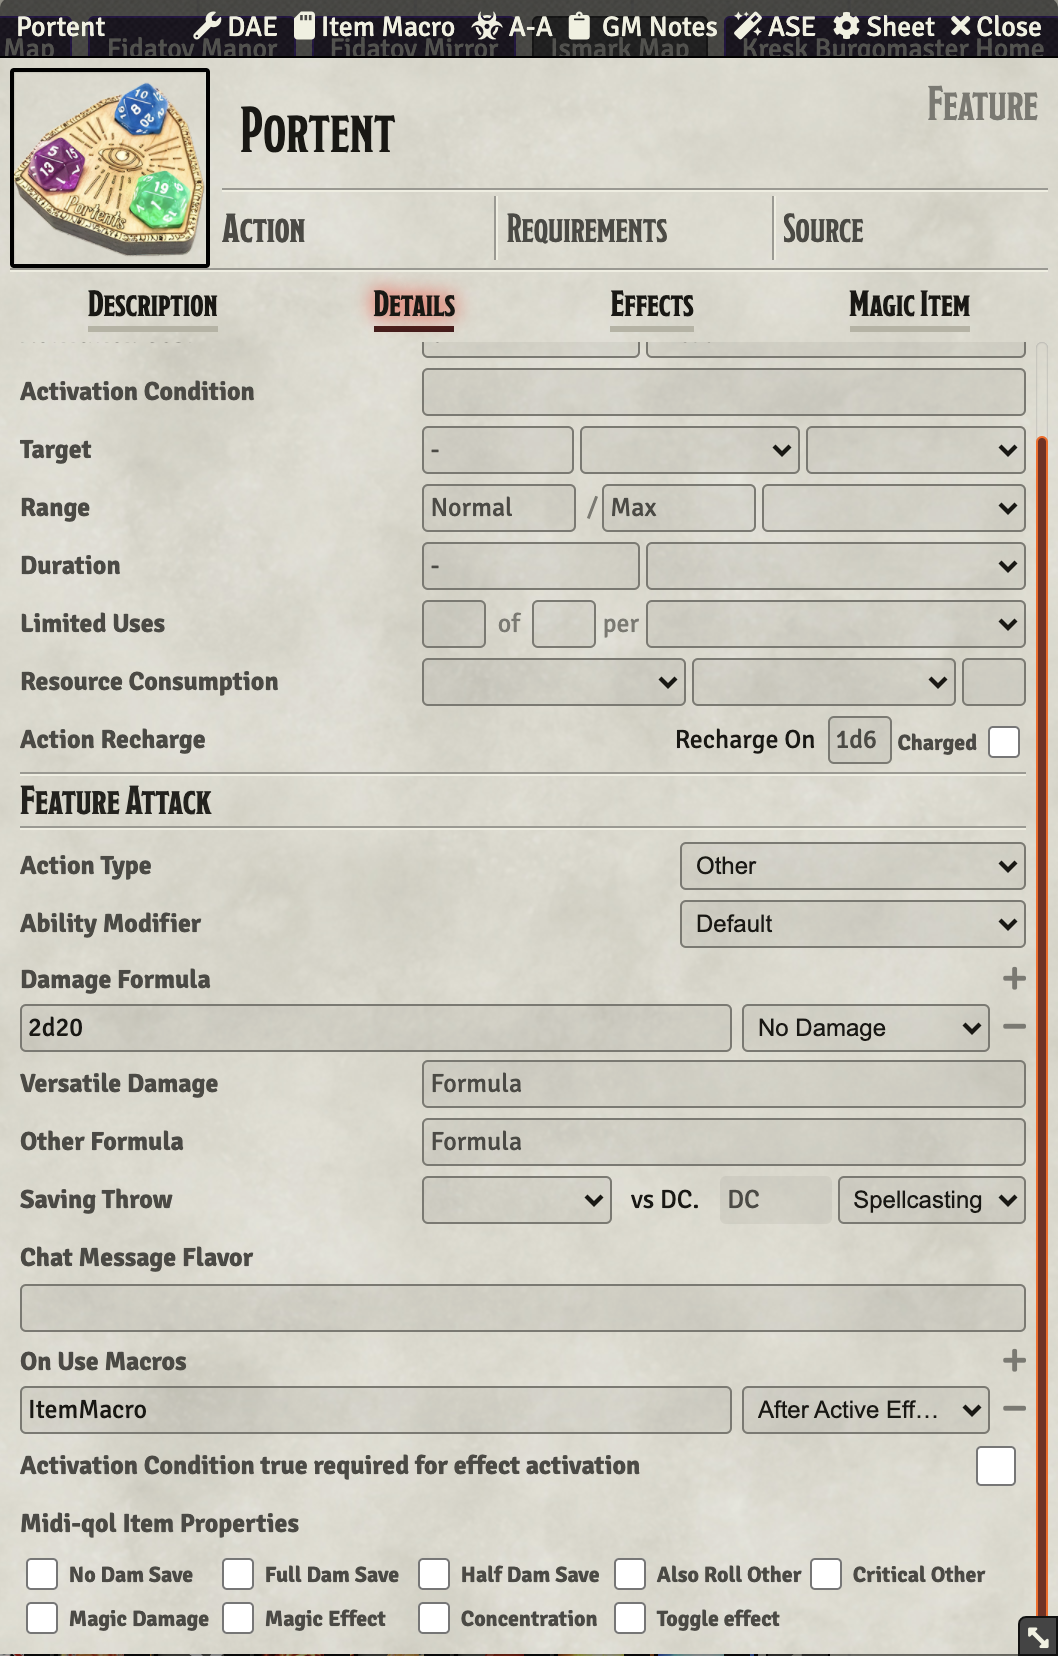
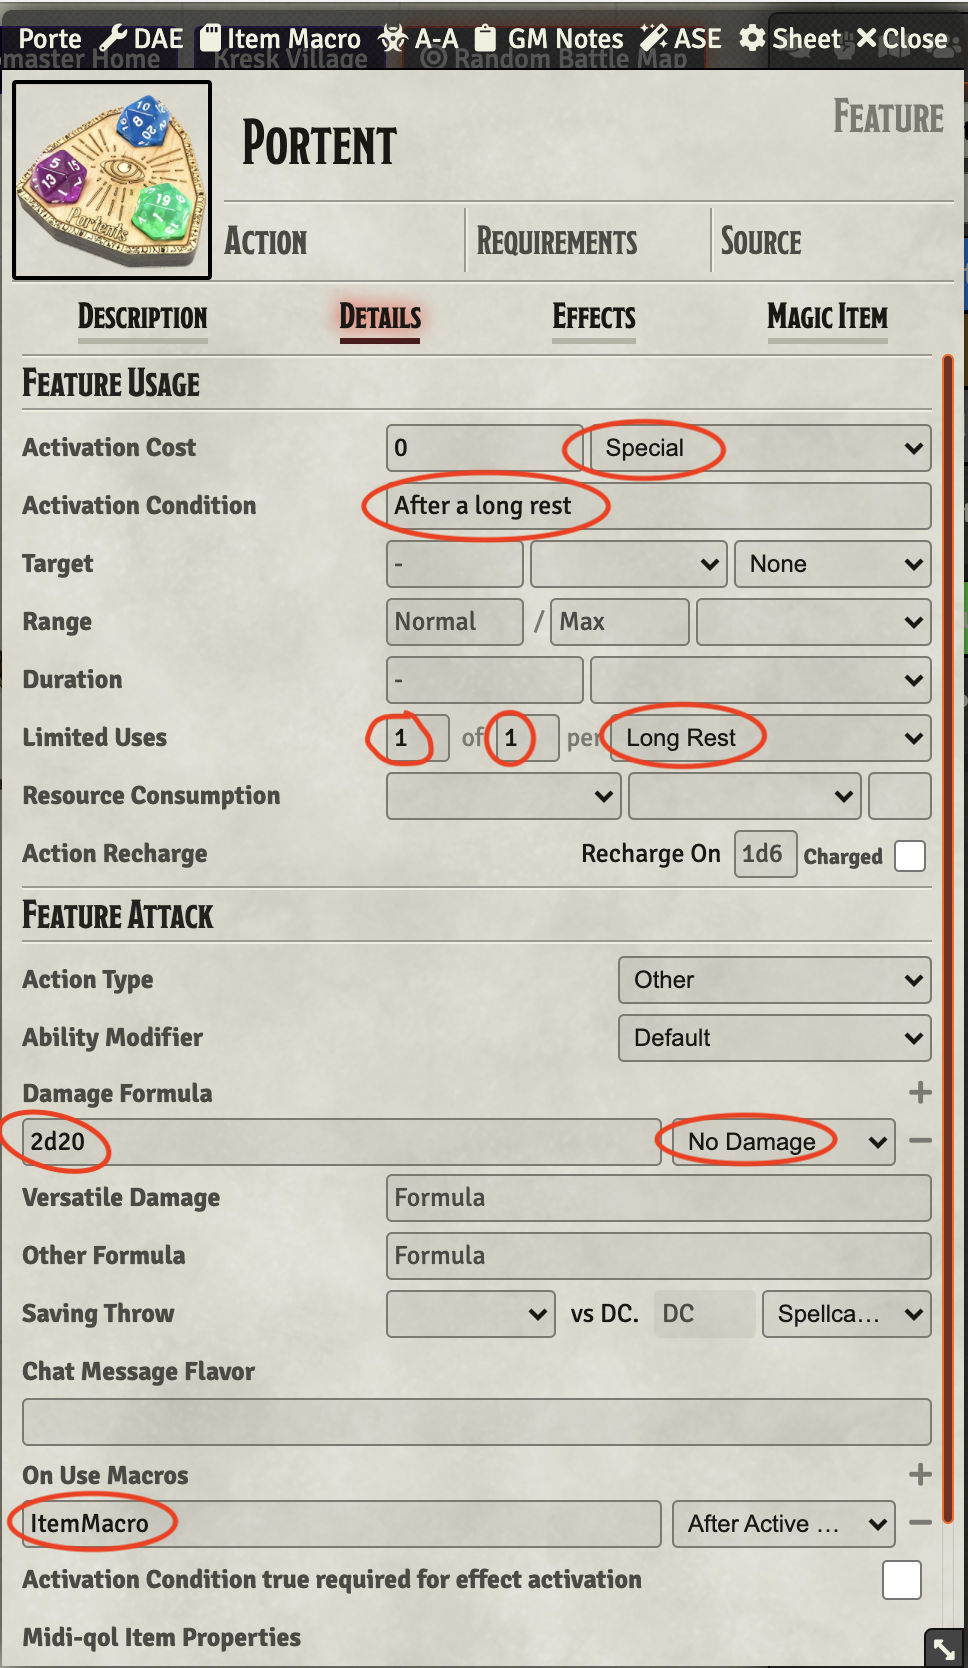
Add Arabelle's Portent

diff --git a/Creature-Features/README.md b/Creature-Features/README.md
@@ -41,6 +41,7 @@ I'll try to document functions as I add them to the repository.
 * **[Spore Cloud](#spore-cloud)** -- The damage effect of Yellow Mold
 * **[Summon Swarm of Insects](#summon-swarm-of-insects)** -- Calls for 1d4 Swarms of Insects
 * **[Standing Stone Lightning Strike](#standing-stone-lightning-strike)** -- Ability to use from journal to implement an effect on Yester Hill.
+* **Portent (Arabelle)** -- Portent slightly modified for Arabelle
 * **[Threat Display](#threat-display)** -- Potential Frightened Application
 * **[Trampling Charge](#trampling-charge)** -- Equine charge / knockdown
 * **[Undead Fortitude](#undead-fortitude)** -- Certain undead's (e.g. Zombie) ability to deny death  
